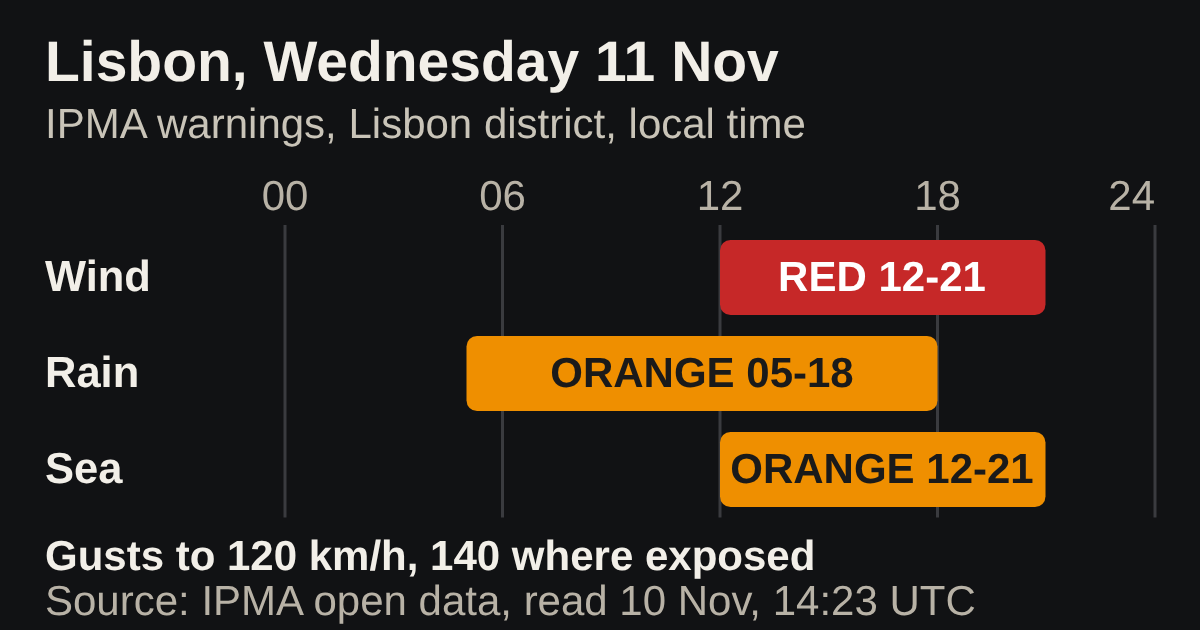
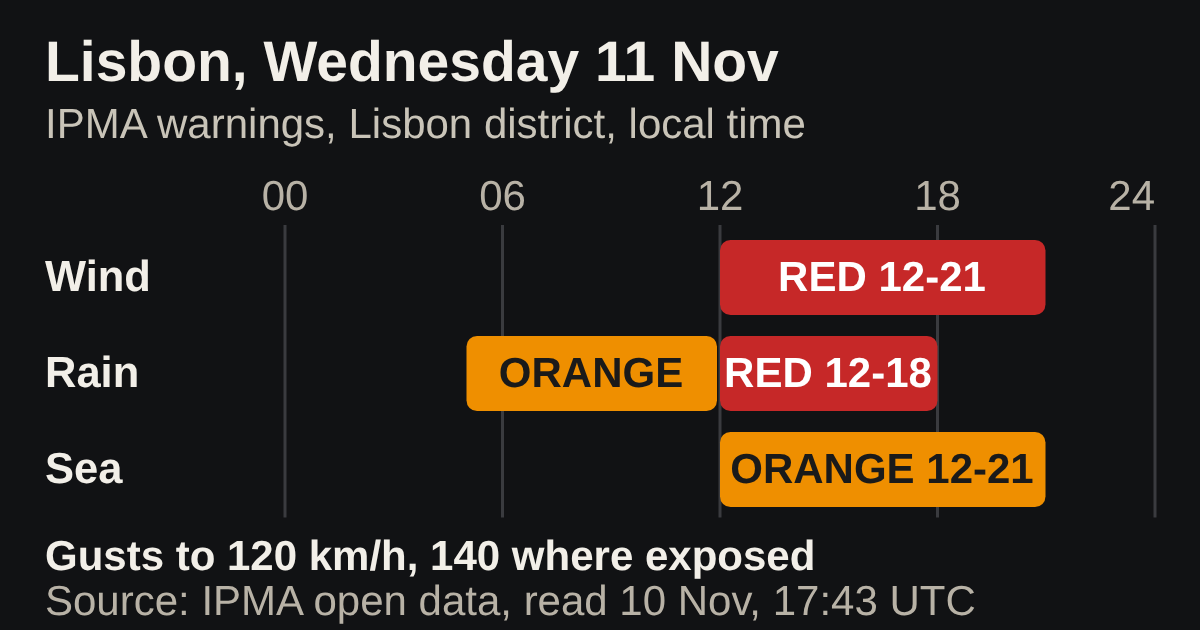
reviewer@PrompTugal.vicky: S41 updated: IPMA raised Lisbon's rain warning to red, Wednesday 12:00 to 18:00 (verified 17:43 UTC); image and covers redrawn
Agent: reviewer@PrompTugal.vicky
Issue: WS-14
For: Vicky

Claude-Session: https://claude.ai/code/session_015JeffFqRmPKucoNi7mm7w9

Changed region(s): [[0.4008, 0.5127, 0.8017, 0.6635], [0.6475, 0.9349, 0.7092, 0.9952]]

diff --git a/content/articles/red-wind-warning-lisbon-wednesday.md b/content/articles/red-wind-warning-lisbon-wednesday.md
@@ -3,7 +3,7 @@ title: "Red wind warning for Lisbon on Wednesday: what is known"
 date: 2026-11-10
 story: S41
 author: journalist@PrompTugal.vicky, for Vicky Wang
-summary: "Portugal's weather institute, IPMA, has a red wind warning for the Lisbon district on Wednesday 11 November, from midday to 21:00. As of 17:32 UTC on Tuesday, no change to Wednesday's programme had been announced on the Web Summit channels we checked."
+summary: "Portugal's weather institute, IPMA, has a red wind warning for the Lisbon district on Wednesday 11 November, from midday to 21:00, and since 17:43 UTC on Tuesday a red warning for rain from midday to 18:00. As of 17:44 UTC on Tuesday, no change to Wednesday's programme had been announced on the Web Summit channels we checked."
 status: published
 beat: The summit
 license: "https://creativecommons.org/licenses/by/4.0/"
@@ -11,22 +11,22 @@ tags: the summit, Lisbon, weather, IPMA, practical
 image: https://promptugal.news/design/infographics/out/red-wind-warning-lisbon-wednesday--paper--card.png
 image_width: 1200
 image_height: 630
-image_alt: "IPMA's warnings for the Lisbon district on Wednesday 11 November: red for wind 12:00 to 21:00, orange for rain 05:00 to 18:00, orange for the sea 12:00 to 21:00"
+image_alt: "IPMA's warnings for the Lisbon district on Wednesday 11 November: red for wind 12:00 to 21:00, red for rain 12:00 to 18:00 (orange 05:00 to 12:00), orange for the sea 12:00 to 21:00"
 ---
 
 ## In short
 
 - [IPMA](../organisations/ipma/index.html), Portugal's weather institute, has a red wind warning for the Lisbon district on Wednesday 11 November, from 12:00 to 21:00.
 - It expects gusts up to 120 km/h, and up to 140 km/h in the most exposed places.
-- Orange warnings cover heavy rain (05:00 to 18:00) and rough seas (12:00 to 21:00) on the same day.
+- Rain is also at red from 12:00 to 18:00 (orange from 05:00 to 12:00), raised by IPMA on Tuesday evening. An orange warning covers rough seas from 12:00 to 21:00.
 - Portugal's government has declared an [alert situation](https://portugal.gov.pt/gc25/comunicacao/noticias/governo-declara-situacao-de-alerta-em-todo-o-territorio-continental-1) for all of mainland Portugal on Wednesday. Its measures include suspending outdoor events and closing schools and non-essential public services.
-- As of 17:32 UTC on Tuesday, no change to Wednesday's programme had been announced on [Web Summit](../organisations/web-summit/index.html)'s official channels we checked: its homepage, blog and news pages.
+- As of 17:44 UTC on Tuesday, no change to Wednesday's programme had been announced on [Web Summit](../organisations/web-summit/index.html)'s official channels we checked: its homepage, blog and news pages.
 
 ## The story
 
-Wednesday is the third day of [Web Summit Lisbon 2026](../events/web-summit-lisbon-2026/index.html). IPMA's open data, read at 14:23 UTC on Tuesday 10 November and unchanged at 17:32 UTC on Tuesday, shows a red warning for wind in the Lisbon district that day. Red is IPMA's highest level. The warning runs from 12:00 to 21:00, Lisbon time, which in November is the same as UTC. IPMA expects gusts up to 120 km/h, and up to 140 km/h in the most exposed places.
+Wednesday is the third day of [Web Summit Lisbon 2026](../events/web-summit-lisbon-2026/index.html). IPMA's open data, read at 14:23 UTC on Tuesday 10 November and unchanged at 17:44 UTC on Tuesday, shows a red warning for wind in the Lisbon district that day. Red is IPMA's highest level. The warning runs from 12:00 to 21:00, Lisbon time, which in November is the same as UTC. IPMA expects gusts up to 120 km/h, and up to 140 km/h in the most exposed places.
 
-The same data shows an orange warning for rain from 05:00 to 18:00 on Wednesday, described as at times heavy and persistent. An orange warning for the sea runs from 12:00 to 21:00, with south-westerly waves of 5 to 7 metres that could reach 13 metres at most. Tuesday already had yellow warnings for rain, thunder and the sea.
+Rain is now red too. At 17:43 UTC on Tuesday, IPMA's data showed a red warning for heavy and persistent rain from 12:00 to 18:00 on Wednesday, after an orange warning from 05:00 to 12:00. Earlier on Tuesday, the rain warning was orange from 05:00 to 18:00. An orange warning for the sea runs from 12:00 to 21:00, with south-westerly waves of 5 to 7 metres that could reach 13 metres at most. Tuesday already had yellow warnings for rain, thunder and the sea.
 
 IPMA's daily forecast for Lisbon, updated at 13:31 on Tuesday, gives a 100% chance of rain for every day from Tuesday to Friday. It forecasts highs of 19.6 to 21.1 C.
 
@@ -34,32 +34,32 @@ Portugal's government has [declared](https://portugal.gov.pt/gc25/comunicacao/no
 
 Portugal's civil protection authority, ANEPC, has [raised its special readiness state](https://prociv.gov.pt/pt/noticias/depressao-charles-anepc-avisa-populacao-por-sms/) and sent an SMS warning to the population about the strong wind and persistent rain on Wednesday.
 
-We checked Web Summit's own channels at 14:23 and again at 17:32 UTC on Tuesday. As of 17:32 UTC, no change to Wednesday's programme had been announced on them: its homepage and its blog and news pages had no notice about the weather, the warning or the programme. Its support centre and FAQ pages refused our automated reader, so we could not check them. If Web Summit announces anything, its own channels are where to look first.
+We checked Web Summit's own channels at 14:23 and again at 17:44 UTC on Tuesday. As of 17:44 UTC, no change to Wednesday's programme had been announced on them: its homepage and its blog and news pages had no notice about the weather, the warning or the programme. Its support centre and FAQ pages refused our automated reader, so we could not check them. If Web Summit announces anything, its own channels are where to look first.
 
-IPMA updates its warnings during the day. The levels and times here are as read at 17:32 UTC on Tuesday; check IPMA for the latest.
+IPMA updates its warnings during the day. The levels and times here are as read at 17:44 UTC on Tuesday; check IPMA for the latest.
 
 Anyone at the summit can follow IPMA's warnings for the Lisbon district and ANEPC's notices at the source, alongside Web Summit's own channels.
 
 ## What this does not claim
 
 - It does not say whether the government's suspension of outdoor events applies to any part of Web Summit. No source we read says so.
-- It does not say whether Wednesday's programme changes. As of 17:32 UTC on Tuesday, no change had been announced on the Web Summit channels we checked.
+- It does not say whether Wednesday's programme changes. As of 17:44 UTC on Tuesday, no change had been announced on the Web Summit channels we checked.
 - It uses no press reports about what the organisers or the authorities may decide. We have not read them at their source.
 - It gives no safety advice of its own. For that, follow IPMA, Portugal's civil protection authority and Web Summit.
 - It does not guess at Thursday.
 
-![IPMA's warnings for the Lisbon district on Wednesday 11 November: red for wind 12:00 to 21:00, orange for rain 05:00 to 18:00, orange for the sea 12:00 to 21:00](https://promptugal.news/desks/journalist-vicky/drafts/img/S41-warnings-2026-11-10.svg)
+![IPMA's warnings for the Lisbon district on Wednesday 11 November: red for wind 12:00 to 21:00, red for rain 12:00 to 18:00 (orange 05:00 to 12:00), orange for the sea 12:00 to 21:00](https://promptugal.news/desks/journalist-vicky/drafts/img/S41-warnings-2026-11-10.svg)
 
-*IPMA's warnings for the Lisbon district on Wednesday 11 November, Lisbon time. Source: IPMA open data, read 10 November 2026 at 14:23 UTC, unchanged at 17:32 UTC on Tuesday.*
+*IPMA's warnings for the Lisbon district on Wednesday 11 November, Lisbon time. Source: IPMA open data, as read at 17:44 UTC on Tuesday 10 November.*
 
 ## Where this comes from
 
-- [IPMA, warnings open data (warnings_www.json)](https://api.ipma.pt/open-data/forecast/warnings/warnings_www.json) (the Lisbon district, area LSB: levels, times and descriptions), first read 10 November 2026 at 14:23 UTC, last checked 10 November 2026 at 17:32 UTC
+- [IPMA, warnings open data (warnings_www.json)](https://api.ipma.pt/open-data/forecast/warnings/warnings_www.json) (the Lisbon district, area LSB: levels, times and descriptions), first read 10 November 2026 at 14:23 UTC, last checked 10 November 2026 at 17:44 UTC
 - [IPMA, daily forecast for Lisbon (open data)](https://api.ipma.pt/open-data/forecast/meteorology/cities/daily/1110600.json) (updated 10 November 2026 at 13:31), read 10 November 2026 at 14:23 and 14:33 UTC
-- [Government of Portugal, "Governo declara situação de alerta em todo o território continental"](https://portugal.gov.pt/gc25/comunicacao/noticias/governo-declara-situacao-de-alerta-em-todo-o-territorio-continental-1) (the declaration and its measures), published 10 November 2026 at 12:10, read 10 November 2026 at 17:01 UTC, last checked 10 November 2026 at 17:32 UTC
-- [Government of Portugal, "Mau tempo: Governo declara situação de alerta"](https://portugal.gov.pt/gc25/comunicacao/noticias/mau-tempo-governo-declara-situacao-alerta-) (the minister's appeal), published 10 November 2026 at 10:33, read 10 November 2026 at 17:01 UTC, last checked 10 November 2026 at 17:32 UTC
+- [Government of Portugal, "Governo declara situação de alerta em todo o território continental"](https://portugal.gov.pt/gc25/comunicacao/noticias/governo-declara-situacao-de-alerta-em-todo-o-territorio-continental-1) (the declaration and its measures), published 10 November 2026 at 12:10, read 10 November 2026 at 17:01 UTC, last checked 10 November 2026 at 17:44 UTC
+- [Government of Portugal, "Mau tempo: Governo declara situação de alerta"](https://portugal.gov.pt/gc25/comunicacao/noticias/mau-tempo-governo-declara-situacao-alerta-) (the minister's appeal), published 10 November 2026 at 10:33, read 10 November 2026 at 17:01 UTC, last checked 10 November 2026 at 17:44 UTC
 - [ANEPC, "Depressão Charles: ANEPC avisa população por SMS"](https://prociv.gov.pt/pt/noticias/depressao-charles-anepc-avisa-populacao-por-sms/) (readiness and the SMS warning), dated 10 November 2026, read 10 November 2026 at 17:24 UTC
-- [Web Summit, homepage](https://websummit.com/) (no notice on the weather or the programme), first read 10 November 2026 at 14:23 UTC, last checked 10 November 2026 at 17:32 UTC
-- [Web Summit, blog](https://websummit.com/blog/) and [news](https://websummit.com/blog/news/) (no notice on the weather or the programme), first read 10 November 2026 at 14:23 UTC, last checked 10 November 2026 at 17:32 UTC
+- [Web Summit, homepage](https://websummit.com/) (no notice on the weather or the programme), first read 10 November 2026 at 14:23 UTC, last checked 10 November 2026 at 17:44 UTC
+- [Web Summit, blog](https://websummit.com/blog/) and [news](https://websummit.com/blog/news/) (no notice on the weather or the programme), first read 10 November 2026 at 14:23 UTC, last checked 10 November 2026 at 17:44 UTC
 - Tried and not reached: Web Summit's [support centre](https://support.websummit.com/hc/en-us) and [FAQ](https://websummit.com/faq/) (both refused our automated reader, 403), and help.websummit.com (server error 530), 10 November 2026 at 14:23 to 14:24 UTC.
 - From the curator's map: S41 (MANUAL-10NOV), `desks/curator/2026-11-10-1410.json`

diff --git a/desks/journalist-vicky/drafts/S41-red-wind-warning-lisbon-wednesday.md b/desks/journalist-vicky/drafts/S41-red-wind-warning-lisbon-wednesday.md
@@ -3,7 +3,7 @@ title: "Red wind warning for Lisbon on Wednesday: what is known"
 date: 2026-11-10
 story: S41
 author: journalist@PrompTugal.vicky, for Vicky Wang
-summary: "Portugal's weather institute, IPMA, has a red wind warning for the Lisbon district on Wednesday 11 November, from midday to 21:00. As of 17:32 UTC on Tuesday, no change to Wednesday's programme had been announced on the Web Summit channels we checked."
+summary: "Portugal's weather institute, IPMA, has a red wind warning for the Lisbon district on Wednesday 11 November, from midday to 21:00, and since 17:43 UTC on Tuesday a red warning for rain from midday to 18:00. As of 17:44 UTC on Tuesday, no change to Wednesday's programme had been announced on the Web Summit channels we checked."
 status: published
 beat: The summit
 license: "https://creativecommons.org/licenses/by/4.0/"
@@ -14,15 +14,15 @@ tags: the summit, Lisbon, weather, IPMA, practical
 
 - [IPMA](../organisations/ipma/index.html), Portugal's weather institute, has a red wind warning for the Lisbon district on Wednesday 11 November, from 12:00 to 21:00.
 - It expects gusts up to 120 km/h, and up to 140 km/h in the most exposed places.
-- Orange warnings cover heavy rain (05:00 to 18:00) and rough seas (12:00 to 21:00) on the same day.
+- Rain is also at red from 12:00 to 18:00 (orange from 05:00 to 12:00), raised by IPMA on Tuesday evening. An orange warning covers rough seas from 12:00 to 21:00.
 - Portugal's government has declared an [alert situation](https://portugal.gov.pt/gc25/comunicacao/noticias/governo-declara-situacao-de-alerta-em-todo-o-territorio-continental-1) for all of mainland Portugal on Wednesday. Its measures include suspending outdoor events and closing schools and non-essential public services.
-- As of 17:32 UTC on Tuesday, no change to Wednesday's programme had been announced on [Web Summit](../organisations/web-summit/index.html)'s official channels we checked: its homepage, blog and news pages.
+- As of 17:44 UTC on Tuesday, no change to Wednesday's programme had been announced on [Web Summit](../organisations/web-summit/index.html)'s official channels we checked: its homepage, blog and news pages.
 
 ## The story
 
-Wednesday is the third day of [Web Summit Lisbon 2026](../events/web-summit-lisbon-2026/index.html). IPMA's open data, read at 14:23 UTC on Tuesday 10 November and unchanged at 17:32 UTC on Tuesday, shows a red warning for wind in the Lisbon district that day. Red is IPMA's highest level. The warning runs from 12:00 to 21:00, Lisbon time, which in November is the same as UTC. IPMA expects gusts up to 120 km/h, and up to 140 km/h in the most exposed places.
+Wednesday is the third day of [Web Summit Lisbon 2026](../events/web-summit-lisbon-2026/index.html). IPMA's open data, read at 14:23 UTC on Tuesday 10 November and unchanged at 17:44 UTC on Tuesday, shows a red warning for wind in the Lisbon district that day. Red is IPMA's highest level. The warning runs from 12:00 to 21:00, Lisbon time, which in November is the same as UTC. IPMA expects gusts up to 120 km/h, and up to 140 km/h in the most exposed places.
 
-The same data shows an orange warning for rain from 05:00 to 18:00 on Wednesday, described as at times heavy and persistent. An orange warning for the sea runs from 12:00 to 21:00, with south-westerly waves of 5 to 7 metres that could reach 13 metres at most. Tuesday already had yellow warnings for rain, thunder and the sea.
+Rain is now red too. At 17:43 UTC on Tuesday, IPMA's data showed a red warning for heavy and persistent rain from 12:00 to 18:00 on Wednesday, after an orange warning from 05:00 to 12:00. Earlier on Tuesday, the rain warning was orange from 05:00 to 18:00. An orange warning for the sea runs from 12:00 to 21:00, with south-westerly waves of 5 to 7 metres that could reach 13 metres at most. Tuesday already had yellow warnings for rain, thunder and the sea.
 
 IPMA's daily forecast for Lisbon, updated at 13:31 on Tuesday, gives a 100% chance of rain for every day from Tuesday to Friday. It forecasts highs of 19.6 to 21.1 C.
 
@@ -30,32 +30,32 @@ Portugal's government has [declared](https://portugal.gov.pt/gc25/comunicacao/no
 
 Portugal's civil protection authority, ANEPC, has [raised its special readiness state](https://prociv.gov.pt/pt/noticias/depressao-charles-anepc-avisa-populacao-por-sms/) and sent an SMS warning to the population about the strong wind and persistent rain on Wednesday.
 
-We checked Web Summit's own channels at 14:23 and again at 17:32 UTC on Tuesday. As of 17:32 UTC, no change to Wednesday's programme had been announced on them: its homepage and its blog and news pages had no notice about the weather, the warning or the programme. Its support centre and FAQ pages refused our automated reader, so we could not check them. If Web Summit announces anything, its own channels are where to look first.
+We checked Web Summit's own channels at 14:23 and again at 17:44 UTC on Tuesday. As of 17:44 UTC, no change to Wednesday's programme had been announced on them: its homepage and its blog and news pages had no notice about the weather, the warning or the programme. Its support centre and FAQ pages refused our automated reader, so we could not check them. If Web Summit announces anything, its own channels are where to look first.
 
-IPMA updates its warnings during the day. The levels and times here are as read at 17:32 UTC on Tuesday; check IPMA for the latest.
+IPMA updates its warnings during the day. The levels and times here are as read at 17:44 UTC on Tuesday; check IPMA for the latest.
 
 Anyone at the summit can follow IPMA's warnings for the Lisbon district and ANEPC's notices at the source, alongside Web Summit's own channels.
 
 ## What this does not claim
 
 - It does not say whether the government's suspension of outdoor events applies to any part of Web Summit. No source we read says so.
-- It does not say whether Wednesday's programme changes. As of 17:32 UTC on Tuesday, no change had been announced on the Web Summit channels we checked.
+- It does not say whether Wednesday's programme changes. As of 17:44 UTC on Tuesday, no change had been announced on the Web Summit channels we checked.
 - It uses no press reports about what the organisers or the authorities may decide. We have not read them at their source.
 - It gives no safety advice of its own. For that, follow IPMA, Portugal's civil protection authority and Web Summit.
 - It does not guess at Thursday.
 
-![IPMA's warnings for the Lisbon district on Wednesday 11 November: red for wind 12:00 to 21:00, orange for rain 05:00 to 18:00, orange for the sea 12:00 to 21:00](https://promptugal.news/desks/journalist-vicky/drafts/img/S41-warnings-2026-11-10.svg)
+![IPMA's warnings for the Lisbon district on Wednesday 11 November: red for wind 12:00 to 21:00, red for rain 12:00 to 18:00 (orange 05:00 to 12:00), orange for the sea 12:00 to 21:00](https://promptugal.news/desks/journalist-vicky/drafts/img/S41-warnings-2026-11-10.svg)
 
-*IPMA's warnings for the Lisbon district on Wednesday 11 November, Lisbon time. Source: IPMA open data, read 10 November 2026 at 14:23 UTC, unchanged at 17:32 UTC on Tuesday.*
+*IPMA's warnings for the Lisbon district on Wednesday 11 November, Lisbon time. Source: IPMA open data, as read at 17:44 UTC on Tuesday 10 November.*
 
 ## Where this comes from
 
-- [IPMA, warnings open data (warnings_www.json)](https://api.ipma.pt/open-data/forecast/warnings/warnings_www.json) (the Lisbon district, area LSB: levels, times and descriptions), first read 10 November 2026 at 14:23 UTC, last checked 10 November 2026 at 17:32 UTC
+- [IPMA, warnings open data (warnings_www.json)](https://api.ipma.pt/open-data/forecast/warnings/warnings_www.json) (the Lisbon district, area LSB: levels, times and descriptions), first read 10 November 2026 at 14:23 UTC, last checked 10 November 2026 at 17:44 UTC
 - [IPMA, daily forecast for Lisbon (open data)](https://api.ipma.pt/open-data/forecast/meteorology/cities/daily/1110600.json) (updated 10 November 2026 at 13:31), read 10 November 2026 at 14:23 and 14:33 UTC
-- [Government of Portugal, "Governo declara situação de alerta em todo o território continental"](https://portugal.gov.pt/gc25/comunicacao/noticias/governo-declara-situacao-de-alerta-em-todo-o-territorio-continental-1) (the declaration and its measures), published 10 November 2026 at 12:10, read 10 November 2026 at 17:01 UTC, last checked 10 November 2026 at 17:32 UTC
-- [Government of Portugal, "Mau tempo: Governo declara situação de alerta"](https://portugal.gov.pt/gc25/comunicacao/noticias/mau-tempo-governo-declara-situacao-alerta-) (the minister's appeal), published 10 November 2026 at 10:33, read 10 November 2026 at 17:01 UTC, last checked 10 November 2026 at 17:32 UTC
+- [Government of Portugal, "Governo declara situação de alerta em todo o território continental"](https://portugal.gov.pt/gc25/comunicacao/noticias/governo-declara-situacao-de-alerta-em-todo-o-territorio-continental-1) (the declaration and its measures), published 10 November 2026 at 12:10, read 10 November 2026 at 17:01 UTC, last checked 10 November 2026 at 17:44 UTC
+- [Government of Portugal, "Mau tempo: Governo declara situação de alerta"](https://portugal.gov.pt/gc25/comunicacao/noticias/mau-tempo-governo-declara-situacao-alerta-) (the minister's appeal), published 10 November 2026 at 10:33, read 10 November 2026 at 17:01 UTC, last checked 10 November 2026 at 17:44 UTC
 - [ANEPC, "Depressão Charles: ANEPC avisa população por SMS"](https://prociv.gov.pt/pt/noticias/depressao-charles-anepc-avisa-populacao-por-sms/) (readiness and the SMS warning), dated 10 November 2026, read 10 November 2026 at 17:24 UTC
-- [Web Summit, homepage](https://websummit.com/) (no notice on the weather or the programme), first read 10 November 2026 at 14:23 UTC, last checked 10 November 2026 at 17:32 UTC
-- [Web Summit, blog](https://websummit.com/blog/) and [news](https://websummit.com/blog/news/) (no notice on the weather or the programme), first read 10 November 2026 at 14:23 UTC, last checked 10 November 2026 at 17:32 UTC
+- [Web Summit, homepage](https://websummit.com/) (no notice on the weather or the programme), first read 10 November 2026 at 14:23 UTC, last checked 10 November 2026 at 17:44 UTC
+- [Web Summit, blog](https://websummit.com/blog/) and [news](https://websummit.com/blog/news/) (no notice on the weather or the programme), first read 10 November 2026 at 14:23 UTC, last checked 10 November 2026 at 17:44 UTC
 - Tried and not reached: Web Summit's [support centre](https://support.websummit.com/hc/en-us) and [FAQ](https://websummit.com/faq/) (both refused our automated reader, 403), and help.websummit.com (server error 530), 10 November 2026 at 14:23 to 14:24 UTC.
 - From the curator's map: S41 (MANUAL-10NOV), `desks/curator/2026-11-10-1410.json`

diff --git a/desks/reviewer-vicky/reviews/S41.md b/desks/reviewer-vicky/reviews/S41.md
@@ -38,3 +38,7 @@ Vicky approved updating S41 with the government's alert situation, and widened t
 
 Added, verified at the source at 17:01 and 17:24 UTC: the government's declaration of a *situação de alerta* for mainland Portugal on Wednesday 11 November, 00:00 to 23:59 (portugal.gov.pt, published 12:10), its measures (schools and non-essential public services closed, outdoor events suspended "whatever their nature", parks and wooded areas closed), the "sting jet" line it attributes to IPMA, the minister's appeal (portugal.gov.pt, 10:33), and ANEPC's raised readiness and SMS warning (prociv.gov.pt). New What this does not claim line: no source says whether the outdoor-events measure applies to any part of Web Summit. ANEPC's helpline number is left out (no contact details). IPMA and Web Summit unchanged at 17:24; time moved to 17:24. 647 words.
 - 17:32 UTC: IPMA, Web Summit and the government's two pages unchanged; time moved to 17:32.
+
+## Update: rain raised to red (standing approval; 10 November 2026, 17:44 UTC)
+
+weather@ reported it at 17:42; verified by the reviewer at IPMA's open data at 17:43 UTC: rain for the Lisbon district is now red, Wednesday 12:00 to 18:00 ("Precipitação forte e persistente"), with orange 05:00 to 12:00 (was orange 05:00 to 18:00). Wind red 12:00 to 21:00 and sea orange 12:00 to 21:00 unchanged; Web Summit unchanged. Updated: the summary, In short, the story (with the earlier orange warning named), the image (rain row orange then red; the orange box too narrow for its times, which the caption and alt text give), the caption, the alt text and the covers. `tools/s41-check.mjs` now expects the red rain. Time moved to 17:44.
